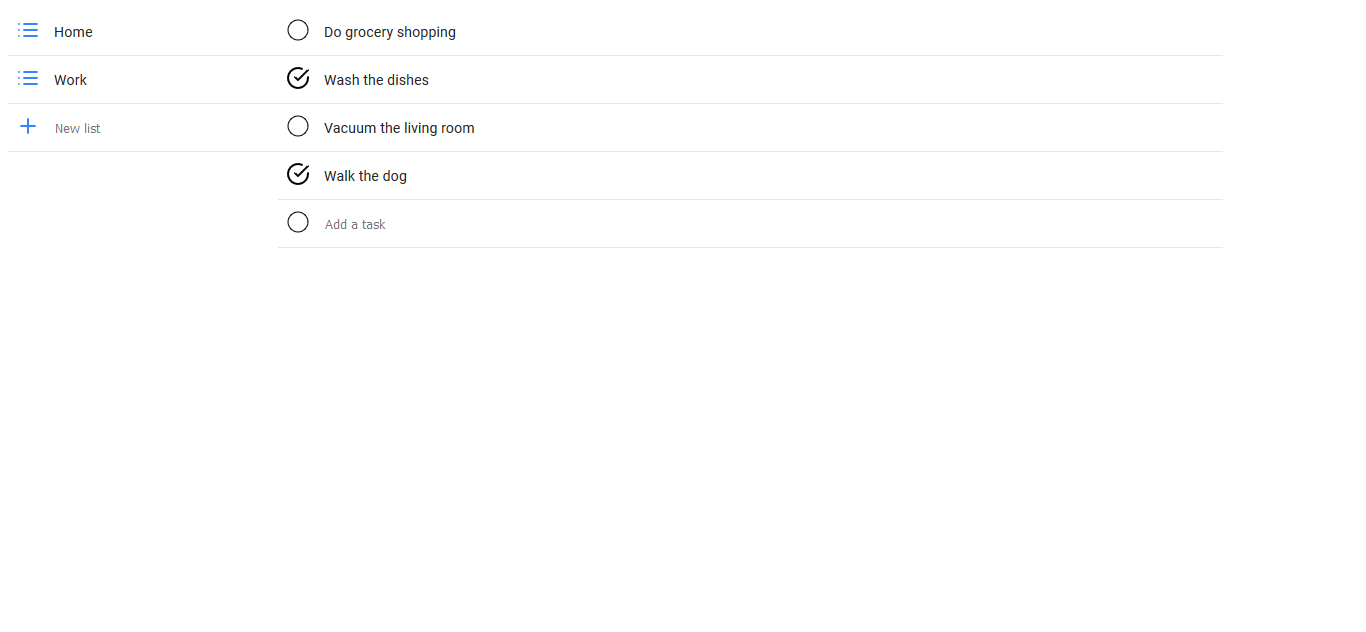
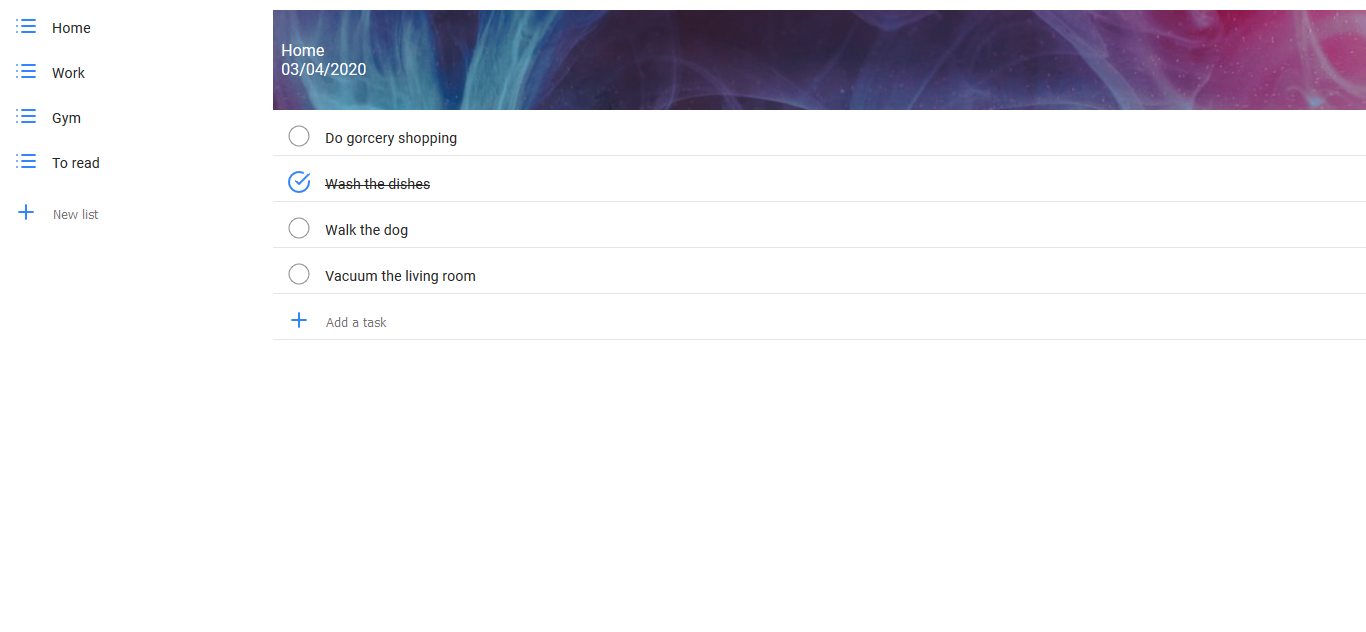
Adds header image styling

diff --git a/src/components/App.js b/src/components/App.js
@@ -18,14 +18,6 @@ const GlobalStyle = createGlobalStyle`
   }
 `;
 
-const ListIconTextWrapper = styled.div`
-  border-bottom: none;
-  padding-bottom: 10px;
-  padding-top: 10px;
-  display: flex;
-  align-items: center;
-`;
-
 const TaskIconTextWrapper = styled.div`
   border-bottom: 0.5px solid #e6e6e6;
   padding-top: 4px;
@@ -36,6 +28,10 @@ const TaskIconTextWrapper = styled.div`
   flex-direction: row;
   align-items: center;
   background-color: rgb(255, 255, 255);
+`;
+
+const ListIconTextWrapper = styled(TaskIconTextWrapper)`
+  border-bottom: 0;
 `;
 
 const InputBox = styled.input`
@@ -81,11 +77,8 @@ const ListTitle = styled.span`
 `;
 
 const Header = styled.div`
-  display: flex;
-  flex-direction: column;
   height: 100px;
-  align-items: left;
-  justify-content: center;
+
   background: url(${props => props.theme});
   background-size: cover;
   background-position: center;
@@ -97,6 +90,15 @@ const EditTitleInput = styled.input`
   color: rgb(255, 255, 255);
   padding-left: 8px;
   font-size: 1rem;
+`;
+
+const ImageTitleWrapper = styled.div`
+  display: flex;
+  flex-direction: column;
+  align-items: left;
+  justify-content: center;
+  height: 100px;
+  background-color: rgba(0, 0, 0, 0.1);
 `;
 
 function App() {
@@ -127,7 +129,7 @@ function App() {
     setLists(newLists);
   }
 
-  function handleOnSubmit(e, input, setInput, lists, activeList) {
+  function handleOnSubmit(e) {
     e.preventDefault();
     lists.map(list =>
       list.id === activeList
@@ -212,23 +214,25 @@ function App() {
             return list.id === activeList ? (
               <>
                 <Header theme={list.theme}>
-                  {list.editMode ? (
-                    <form
-                      onSubmit={e => handleEditTitle(e)}
-                      onBlur={() => changeEditMode()}
-                    >
-                      <EditTitleInput
-                        defaultValue={list.name}
-                        onChange={e => setEditedInput(e.target.value)}
-                        autoFocus
-                      />
-                    </form>
-                  ) : (
-                    <ListTitle onClick={() => changeEditMode()}>
-                      {list.name}
-                    </ListTitle>
-                  )}
-                  <ListTitle>{today}</ListTitle>
+                  <ImageTitleWrapper>
+                    {list.editMode ? (
+                      <form
+                        onSubmit={e => handleEditTitle(e)}
+                        onBlur={() => changeEditMode()}
+                      >
+                        <EditTitleInput
+                          defaultValue={list.name}
+                          onChange={e => setEditedInput(e.target.value)}
+                          autoFocus
+                        />
+                      </form>
+                    ) : (
+                      <ListTitle onClick={() => changeEditMode()}>
+                        {list.name}
+                      </ListTitle>
+                    )}
+                    <ListTitle>{today}</ListTitle>
+                  </ImageTitleWrapper>
                 </Header>
                 {list.tasks.map(task => (
                   <TaskIconTextWrapper>
@@ -248,11 +252,7 @@ function App() {
 
           {activeList ? (
             <>
-              <form
-                onSubmit={e =>
-                  handleOnSubmit(e, input, setInput, lists, activeList)
-                }
-              >
+              <form onSubmit={e => handleOnSubmit(e)}>
                 <TaskIconTextWrapper>
                   <StyledButton>
                     <Plus color="#3385ff" />

diff --git a/src/components/Form.js b/src/components/Form.js
@@ -9,7 +9,7 @@ const InputBox = styled.input`
 `;
 
 const ListIconTextWrapper = styled.div`
-  border-bottom: none;
+  border-bottom: 0;
   padding-bottom: 10px;
   padding-top: 10px;
   display: flex;
@@ -19,41 +19,38 @@ const ListIconTextWrapper = styled.div`
 const StyledButton = styled.button`
   border: 0;
   padding-right: 14px;
+  margin-left: 6px;
   background-color: #ffffff;
 `;
-
-async function handleOnSubmit(e, lists, setLists, input, setInput) {
-  e.preventDefault();
-  const response = await unsplash.get("/photos/random", {
-    params: {
-      query: "color wallpapers"
-    }
-  });
-  const id = nanoid();
-  input
-    ? setLists([
-        ...lists,
-        {
-          id,
-          name: input,
-          editMode: false,
-          theme: response.data.urls.regular,
-          tasks: []
-        }
-      ])
-    : setLists([...lists]);
-  setInput("");
-}
 
 function Form({ lists, setLists, placeholder }) {
   const [input, setInput] = useState("");
 
-  return (
-    <form
-      onSubmit={event =>
-        handleOnSubmit(event, lists, setLists, input, setInput)
+  async function handleOnSubmit(e) {
+    e.preventDefault();
+    const response = await unsplash.get("/photos/random", {
+      params: {
+        query: "color wallpapers"
       }
-    >
+    });
+    const id = nanoid();
+    input
+      ? setLists([
+          ...lists,
+          {
+            id,
+            name: input,
+            editMode: false,
+            theme: response.data.urls.regular,
+            tasks: []
+          }
+        ])
+      : setLists([...lists]);
+    setInput("");
+  }
+
+  return (
+    <form onSubmit={event => handleOnSubmit(event)}>
       <ListIconTextWrapper>
         <StyledButton>
           <Plus color="#3385ff" />
